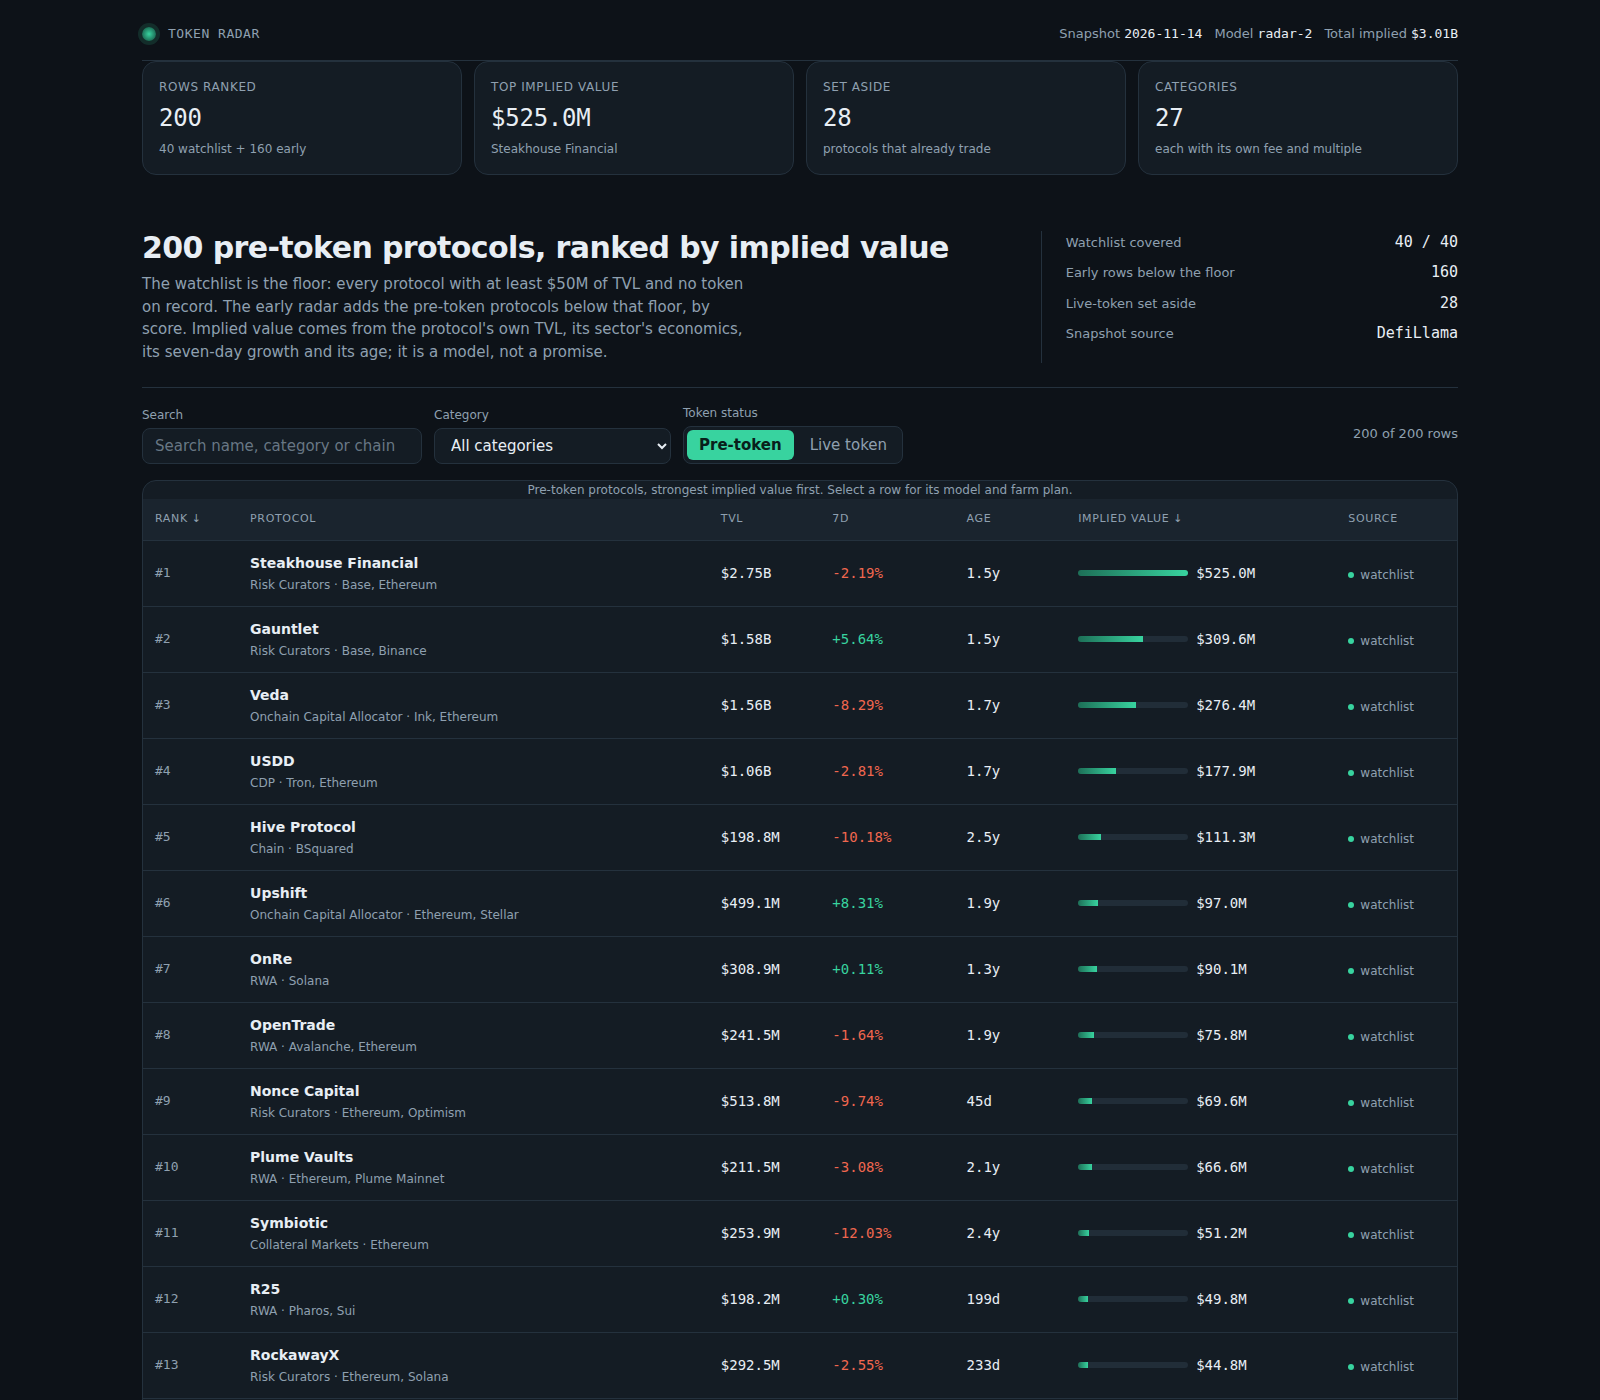
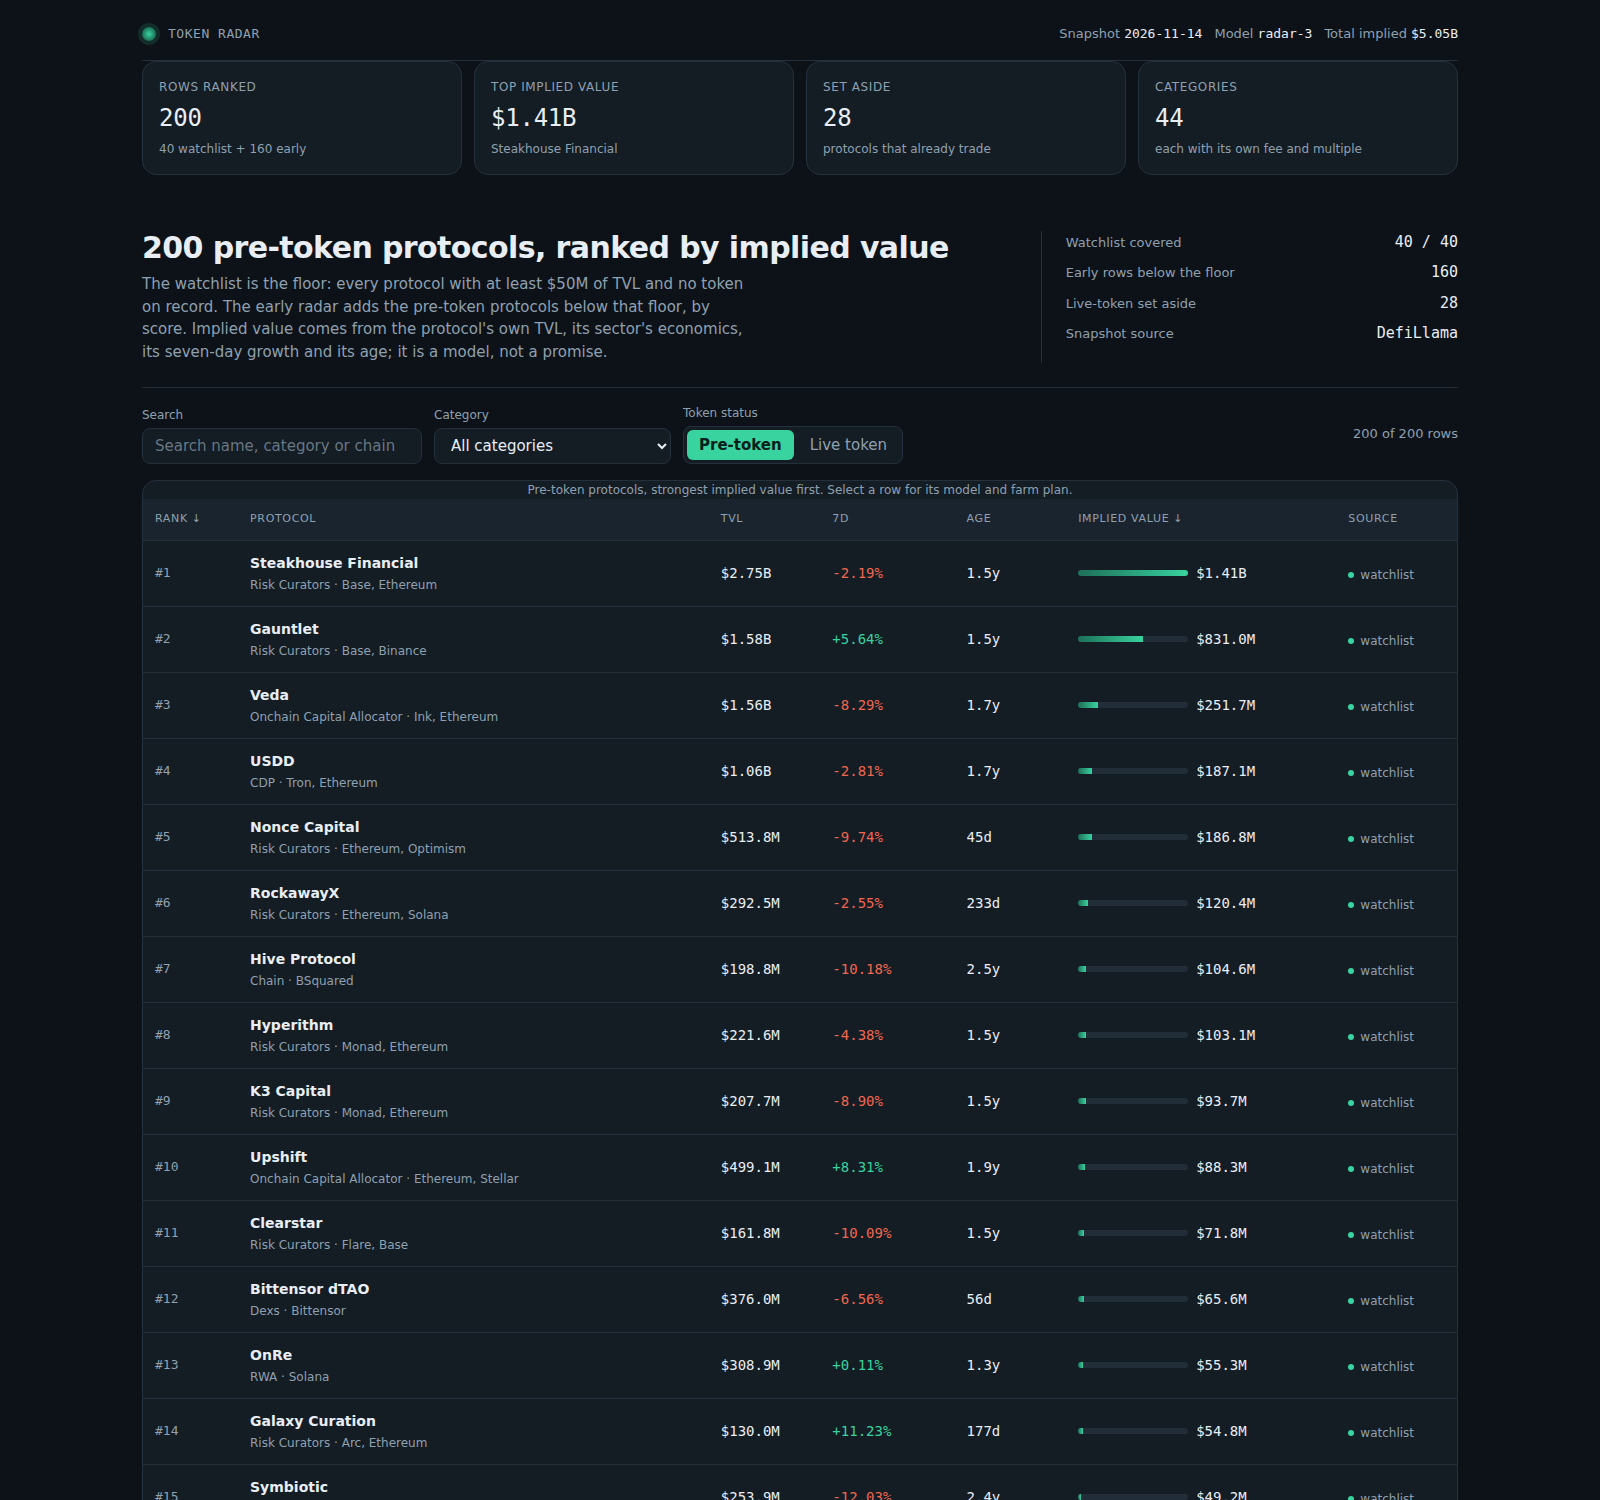
Measured sector multiples: calibrate mcap per TVL from the snapshot live tokens, shrink thin samples

diff --git a/lib/model.ts b/lib/model.ts
@@ -17,6 +17,13 @@
 //
 // No protocol name is ever special-cased: the same function scores every row. Every constant is stated
 // on the dashboard, every sector's terms are printed there, and each row's detail view shows the parts.
+//
+// The multiple is not asserted: it is measured. The snapshot's own live-token protocols carry both a
+// market cap and a TVL, so the multiple the market pays each sector is read off them (lib/calibrate.ts)
+// and only thin sectors fall back toward the snapshot median. The fee stays a stated sector assumption,
+// because no snapshot field carries a protocol's revenue.
+
+import { calibrateMultiples, fallbackMultiple, CALIBRATION_PRIOR_SAMPLES, type CalibratedMultiple } from './calibrate.ts';
 
 /** The snapshot's protocol entry: exactly the ten fields the sealed input carries. */
 export interface SnapshotProtocol {
@@ -69,7 +76,7 @@ export const MODEL: ModelConstants = {
 };
 
 /** The model's version label: the dashboard names it and the rules quote it. */
-export const MODEL_VERSION = 'radar-2';
+export const MODEL_VERSION = 'radar-3';
 
 /** How many pre-token protocols below the watchlist floor the early radar carries, by score. */
 export const EARLY_ROWS = 160;
@@ -132,10 +139,42 @@ export function sectorTerms(category: string | null): SectorTerms {
   return { fee_bps: 170, multiple: 16, note: 'the middle of the sector table: this category has no row of its own' };
 }
 
-/** The whole sector table, for the dashboard's model panel. */
-export function sectorTable(): { category: string; fee_bps: number; multiple: number; note: string }[] {
-  return Object.keys(SECTORS)
-    .map((c) => ({ category: c, fee_bps: SECTORS[c]!.fee_bps, multiple: SECTORS[c]!.multiple, note: SECTORS[c]!.note }))
+/** One sector's terms as the dashboard prints them: the assumed fee, the measured multiple, its evidence. */
+export interface SectorRow {
+  category: string;
+  fee_bps: number;
+  multiple: number;
+  note: string;
+  /** How many live-token protocols the multiple was measured on. */
+  samples: number;
+  /** The category's own median mcap/tvl, or null when nothing was measured. */
+  observed: number | null;
+  /** True when the multiple was shrunk toward the snapshot median for thin evidence. */
+  shrunk: boolean;
+}
+
+/**
+ * The whole sector table, for the dashboard's model panel. Every category the board actually scores is
+ * present, with the market-measured multiple when the snapshot has live protocols to measure it on.
+ */
+export function sectorTable(snapshot?: Snapshot): SectorRow[] {
+  const calibration = snapshot !== undefined ? calibrateMultiples(snapshot.protocols) : null;
+  const categories = new Set<string>(Object.keys(SECTORS));
+  if (calibration !== null) for (const c of calibration.byCategory.keys()) categories.add(c);
+  return [...categories]
+    .map((c) => {
+      const terms = sectorTerms(c);
+      const measured = calibration?.byCategory.get(c);
+      return {
+        category: c,
+        fee_bps: terms.fee_bps,
+        multiple: measured !== undefined ? Math.round(measured.multiple * 100) / 100 : terms.multiple,
+        note: terms.note,
+        samples: measured?.samples ?? 0,
+        observed: measured?.observed ?? null,
+        shrunk: measured?.shrunk ?? false,
+      };
+    })
     .sort((a, b) => b.multiple - a.multiple || b.fee_bps - a.fee_bps);
 }
 
@@ -216,7 +255,7 @@ export interface RadarData {
   floor_usd: number;
   model: ModelConstants;
   model_version: string;
-  sectors: { category: string; fee_bps: number; multiple: number; note: string }[];
+  sectors: SectorRow[];
   watchlist_size: number;
   board_size: number;
   early_size: number;
@@ -255,6 +294,8 @@ export function impliedValue(
   protocol: SnapshotProtocol,
   asOf: string,
   model: ModelConstants,
+  calibration?: Map<string, CalibratedMultiple> | null,
+  snapshotMedian = 0,
 ): {
   implied: number;
   revenue: number;
@@ -266,9 +307,18 @@ export function impliedValue(
   liquidityMult: number;
   age: number | null;
   sectorNote: string;
+  multipleSamples: number;
+  multipleObserved: number | null;
 } {
   const terms = sectorTerms(protocol.category);
+  // The value a dollar of TVL commands comes from the market's own live protocols in this category. That
+  // ratio, mcap / tvl, needs no fee assumption: the market has already priced the book. The sector table's
+  // figure is the fallback only when the snapshot holds no live protocol in the category to measure on.
+  const measured = protocol.category !== null ? calibration?.get(protocol.category) : undefined;
+  const multiple = measured !== undefined ? measured.multiple : fallbackMultiple(snapshotMedian, terms.multiple);
   const age = ageDays(asOf, protocol.listed_at);
+  // The book's own earnings, at the sector's stated fee: a reference figure the row prints, not the
+  // multiplier path. It answers "what would this book earn a year", separate from "what is it worth".
   const revenue = (protocol.tvl_usd * terms.fee_bps) / 10_000;
   const rawGrowth = finite(protocol.change_7d, 0);
   const growthPct = Math.min(model.growth_cap, Math.max(model.growth_floor, rawGrowth));
@@ -280,18 +330,22 @@ export function impliedValue(
   const liquidityMult =
     model.liquidity_floor +
     Math.min(Math.log10(tvlRatio) / Math.log10(model.liquidity_ref_usd / 1_000_000), 1) * model.liquidity_range;
-  const implied = Math.max(1, Math.round(revenue * terms.multiple * growthMult * tenureMult * liquidityMult));
+  // Value = the book, priced at what its own sector's live tokens are worth per dollar of TVL, adjusted for
+  // how fast the book is growing, how long it has held it, and how much of it could actually be traded.
+  const implied = Math.max(1, Math.round(protocol.tvl_usd * multiple * growthMult * tenureMult * liquidityMult));
   return {
     implied,
     revenue,
     feeBps: terms.fee_bps,
-    multiple: terms.multiple,
+    multiple,
     growthPct,
     growthMult,
     tenureMult,
     liquidityMult,
     age,
     sectorNote: terms.note,
+    multipleSamples: measured?.samples ?? 0,
+    multipleObserved: measured?.observed ?? null,
   };
 }
 
@@ -316,6 +370,9 @@ function bySlug(protocols: SnapshotProtocol[]): Map<string, SnapshotProtocol> {
 /** The protocols the board ranks, strongest first, with ranks 1..n. */
 export function buildBoard(snapshot: Snapshot, model: ModelConstants = MODEL): BoardRow[] {
   const index = bySlug(snapshot.protocols);
+  const calibrated = calibrateMultiples(snapshot.protocols);
+  const calibration = calibrated.byCategory;
+  const snapshotMedian = calibrated.snapshotMedian;
   const chosen = new Map<string, SnapshotProtocol>();
   // The watchlist is the floor: every slug it names is on the board.
   for (const slug of snapshot.watchlist) {
@@ -326,12 +383,12 @@ export function buildBoard(snapshot: Snapshot, model: ModelConstants = MODEL): B
   // protocol is never displaced by an early one.
   const early = snapshot.protocols
     .filter((p) => !chosen.has(p.slug) && isRankable(p) && p.tvl_usd < snapshot.floor_usd)
-    .map((p) => ({ p, implied: impliedValue(p, snapshot.as_of, model).implied }))
+    .map((p) => ({ p, implied: impliedValue(p, snapshot.as_of, model, calibration, snapshotMedian).implied }))
     .sort((a, b) => b.implied - a.implied || b.p.tvl_usd - a.p.tvl_usd || (a.p.slug < b.p.slug ? -1 : 1))
     .slice(0, EARLY_ROWS);
   for (const e of early) chosen.set(e.p.slug, e.p);
 
-  const scored = [...chosen.values()].map((p) => ({ p, ...impliedValue(p, snapshot.as_of, model) }));
+  const scored = [...chosen.values()].map((p) => ({ p, ...impliedValue(p, snapshot.as_of, model, calibration, snapshotMedian) }));
   scored.sort((a, b) => b.implied - a.implied || (a.p.slug < b.p.slug ? -1 : a.p.slug > b.p.slug ? 1 : 0));
   return scored.map((s, i) => ({
     rank: i + 1,
@@ -358,6 +415,14 @@ export function buildBoard(snapshot: Snapshot, model: ModelConstants = MODEL): B
       liquidity_multiplier: round4(s.liquidityMult),
       age_days: s.age,
       sector_note: s.sectorNote,
+      multiple_samples: s.multipleSamples,
+      multiple_observed: s.multipleObserved,
+      multiple_source:
+        s.multipleSamples === 0
+          ? 'snapshot median: no live token in this category to measure on'
+          : s.multipleSamples < CALIBRATION_PRIOR_SAMPLES
+            ? 'measured on ' + s.multipleSamples + ' live token' + (s.multipleSamples === 1 ? '' : 's') + ', shrunk toward the snapshot median'
+            : 'measured on ' + s.multipleSamples + ' live tokens in this category',
     },
     farm_steps: farmSteps(s.p, s.age, s.implied).map(stepText),
   }));
@@ -525,7 +590,7 @@ export function buildRadar(snapshot: Snapshot, model: ModelConstants = MODEL): {
     floor_usd: snapshot.floor_usd,
     model,
     model_version: MODEL_VERSION,
-    sectors: sectorTable(),
+    sectors: sectorTable(snapshot),
     watchlist_size: snapshot.watchlist.length,
     board_size: board.length,
     early_size: early,

diff --git a/dashboard/app.js b/dashboard/app.js
@@ -43,8 +43,8 @@
     var liquidity =
       model.liquidity_floor +
       Math.min(Math.log(tvlRatio) / Math.log(model.liquidity_ref_usd / 1e6), 1) * model.liquidity_range;
-    var revenue = (row.tvl_usd * row.fee_bps) / 10000;
-    return Math.max(1, Math.round(revenue * row.multiple * growthMult * tenure * liquidity));
+    // Value = the book, priced at what the sector's own live tokens are worth per dollar of TVL.
+    return Math.max(1, Math.round(row.tvl_usd * row.multiple * growthMult * tenure * liquidity));
   }
 
   function el(tag, attrs) {
@@ -363,11 +363,15 @@
 
   function modelPanel() {
     var m = DATA.model;
-    var sectorRows = DATA.sectors.slice(0, 28).map(function (s) {
+    var sectorRows = DATA.sectors.slice(0, 30).map(function (s) {
+      var evidence = s.samples === 0
+        ? 'snapshot median'
+        : s.samples + (s.samples === 1 ? ' live token' : ' live tokens') + (s.shrunk ? ', shrunk' : '');
       return el('tr', null,
         el('td', { text: s.category }),
         el('td', { class: 'num', text: (s.fee_bps / 100).toFixed(2) + '%' }),
-        el('td', { class: 'num', text: s.multiple + 'x' }),
+        el('td', { class: 'num', text: (Math.round(s.multiple * 100) / 100) + '×' }),
+        el('td', { class: 'num' + (s.samples === 0 ? ' weak' : ''), text: evidence }),
         el('td', { class: 'sub', text: s.note })
       );
     });
@@ -375,17 +379,19 @@
       el('h2', { text: 'How implied value is computed' }),
       el('p', { class: 'sub', text: 'Every row is scored by one function of the snapshot figures. No protocol name is special-cased and no row is hand-picked.' }),
       el('div', { class: 'formula' },
-        el('div', null, el('b', { text: 'revenue' }), ' = tvl_usd × FEE_BPS(category) / 10000'),
+        el('div', null, el('b', { text: 'multiple' }), ' = median( mcap / tvl ) over the snapshot\'s live tokens in that category'),
         el('div', null, el('b', { text: 'growth' }), ' = 1 + clamp(change_7d, ' + m.growth_floor + ', ' + m.growth_cap + ') / 100 × ' + m.growth_weight),
         el('div', null, el('b', { text: 'tenure' }), ' = ' + m.tenure_floor + ' + min(age_days, ' + m.tenure_days + ') / ' + m.tenure_days + ' × ' + m.tenure_range),
         el('div', null, el('b', { text: 'liquidity' }), ' = ' + m.liquidity_floor + ' + min(log10(tvl / $1M) / log10($3B / $1M), 1) × ' + m.liquidity_range),
-        el('div', null, el('b', { text: 'implied' }), ' = max(1, round(revenue × multiple × growth × tenure × liquidity))')
+        el('div', null, el('b', { text: 'implied' }), ' = max(1, round(tvl_usd × multiple × growth × tenure × liquidity))')
       ),
-      el('p', { class: 'sub', text: 'TVL, seven-day growth and listing date come from the snapshot. Age is the time since the protocol was first listed, the best record of how long it has run with no token; an unlisted age uses ' + m.unknown_age_days + ' days. Each sector carries its own revenue take and revenue multiple, because a lending market and a chain do not earn the same way.' }),
-      el('h3', { text: 'Sector terms' }),
+      el('p', { class: 'sub', text: 'TVL, seven-day growth and listing date come from the snapshot. Age is the time since the protocol was first listed, the best record of how long it has run with no token; an unlisted age uses ' + m.unknown_age_days + ' days.' }),
+      el('p', { class: 'sub', text: 'The multiple is measured, not assumed: the snapshot\'s own live-token protocols carry a market cap and a TVL, so mcap / tvl reads off what the market currently pays each sector per dollar of book. A category with fewer than six live tokens is shrunk toward the snapshot median, so one lucky sample never sets a sector\'s price. A category with none takes the snapshot median and says so.' }),
+      el('p', { class: 'sub', text: 'The fee figure is a stated assumption, not a measurement: no snapshot field carries a protocol\'s revenue, so what a book would earn a year is shown separately from what it is worth.' }),
+      el('h3', { text: 'Sector terms: assumed fee, measured multiple' }),
       el('div', { class: 'sector-table' },
         el('table', null,
-          el('thead', null, el('tr', null, el('th', { scope: 'col', text: 'Category' }), el('th', { scope: 'col', text: 'Fee on TVL' }), el('th', { scope: 'col', text: 'Multiple' }), el('th', { scope: 'col', text: 'Where the revenue comes from' }))),
+          el('thead', null, el('tr', null, el('th', { scope: 'col', text: 'Category' }), el('th', { scope: 'col', text: 'Assumed fee on TVL' }), el('th', { scope: 'col', text: 'Measured multiple' }), el('th', { scope: 'col', text: 'Evidence' }), el('th', { scope: 'col', text: 'Where the revenue comes from' }))),
           el('tbody', null, sectorRows)
         )
       )
@@ -415,8 +421,9 @@
       el('h3', { text: 'Implied value' }),
       el('div', { class: 'equation' },
         el('div', null, el('span', { text: 'TVL' }), el('b', { class: 'num', text: fmtUsd(row.tvl_usd) })),
-        el('div', null, el('span', { text: 'Revenue at ' + (row.fee_bps / 100).toFixed(2) + '% of TVL' }), el('b', { class: 'num', text: fmtUsd(row.revenue_usd) })),
-        el('div', null, el('span', { text: 'Sector multiple' }), el('b', { class: 'num', text: row.multiple + 'x' })),
+        el('div', null, el('span', { text: 'Market multiple: mcap per $1 of TVL' }), el('b', { class: 'num', text: (Math.round(row.multiple * 100) / 100) + '×' })),
+        el('div', null, el('span', { text: 'Where that multiple comes from' }), el('b', { class: 'num sub', text: row.multiple_source || 'n/a' })),
+        el('div', null, el('span', { text: 'Book earnings a year at ' + (row.fee_bps / 100).toFixed(2) + '% of TVL (reference)' }), el('b', { class: 'num', text: fmtUsd(row.revenue_usd) })),
         el('div', null, el('span', { text: 'Seven-day growth' }), el('b', { class: 'num', text: fmtPct(row.change_7d) })),
         el('div', null, el('span', { text: 'Age with no token' }), el('b', { class: 'num', text: fmtAge(row.age_days) })),
         el('div', null, el('span', { text: 'Growth multiplier' }), el('b', { class: 'num', text: String(row.growth_multiplier) })),

diff --git a/lib/calibrate.ts b/lib/calibrate.ts
@@ -1,0 +1,86 @@
+// Sector multiple calibration (radar-3): the revenue multiple a token market pays each sector, measured
+// from the snapshot itself rather than asserted.
+//
+// The snapshot's live-token protocols carry a market cap and a TVL. Their ratio, mcap / tvl, is the
+// multiple the market currently pays that sector's book. Grouping those protocols by category and taking
+// the median gives an observed multiple per sector. Sectors with too few live samples are shrunk toward
+// the whole-snapshot median in proportion to their sample count, so a sector with one lucky sample never
+// outranks a sector with twelve.
+//
+// What this cannot measure: the fee a protocol takes on its book. No snapshot field carries revenue, so
+// the sector's fee_bps stays a stated economic assumption (a lending spread is thin, a curator's fee is
+// not). The dashboard prints both: the measured multiple and the assumed fee, labelled as such.
+
+/** A category's observed multiple and the evidence behind it. */
+export interface CalibratedMultiple {
+  /** The multiple this model uses for the category. */
+  multiple: number;
+  /** The raw median mcap/tvl of the category's live-token protocols, or null when it has none. */
+  observed: number | null;
+  /** How many live-token protocols the observation rests on. */
+  samples: number;
+  /** True when the value was shrunk toward the snapshot median rather than taken raw. */
+  shrunk: boolean;
+}
+
+/** How much evidence a category needs before its own median stands on its own. */
+export const CALIBRATION_PRIOR_SAMPLES = 6;
+
+/** Plausible mcap/tvl band: outside it the sample is a data error, not a market price. */
+export const CALIBRATION_MIN_RATIO = 0.01;
+export const CALIBRATION_MAX_RATIO = 100;
+
+/** The median of a non-empty list of numbers. */
+export function median(values: number[]): number {
+  const sorted = [...values].sort((a, b) => a - b);
+  const mid = sorted.length >> 1;
+  return sorted.length % 2 === 1 ? sorted[mid]! : (sorted[mid - 1]! + sorted[mid]!) / 2;
+}
+
+/**
+ * The market's observed multiple for every category with at least one live-token sample, plus the
+ * snapshot-wide median those thin categories are shrunk toward.
+ */
+export function calibrateMultiples(
+  protocols: { category: string | null; tvl_usd: number; mcap_usd: number | null }[],
+): { byCategory: Map<string, CalibratedMultiple>; snapshotMedian: number } {
+  const ratiosByCategory = new Map<string, number[]>();
+  const allRatios: number[] = [];
+  for (const p of protocols) {
+    if (p.category === null || p.mcap_usd === null || !(p.tvl_usd > 0) || !(p.mcap_usd > 0)) continue;
+    const ratio = p.mcap_usd / p.tvl_usd;
+    if (!(ratio >= CALIBRATION_MIN_RATIO && ratio <= CALIBRATION_MAX_RATIO)) continue;
+    allRatios.push(ratio);
+    const list = ratiosByCategory.get(p.category) ?? [];
+    list.push(ratio);
+    ratiosByCategory.set(p.category, list);
+  }
+  // The snapshot has no live protocols at all: no measurement is possible, and the caller falls back
+  // to the stated sector table. A zero median would silently zero every row, so it is never that.
+  const snapshotMedian = allRatios.length > 0 ? median(allRatios) : 0;
+
+  const byCategory = new Map<string, CalibratedMultiple>();
+  for (const [category, ratios] of ratiosByCategory) {
+    const observed = median(ratios);
+    const samples = ratios.length;
+    if (samples >= CALIBRATION_PRIOR_SAMPLES || snapshotMedian === 0) {
+      byCategory.set(category, { multiple: observed, observed, samples, shrunk: false });
+      continue;
+    }
+    // Shrink toward the snapshot median: weight the category's own evidence by its sample count
+    // against the prior, so one sample moves the number barely and five move it most of the way.
+    const w = samples / CALIBRATION_PRIOR_SAMPLES;
+    const shrunkTo = observed * w + snapshotMedian * (1 - w);
+    byCategory.set(category, { multiple: shrunkTo, observed, samples, shrunk: true });
+  }
+  return { byCategory, snapshotMedian };
+}
+
+/**
+ * The multiple for a category the snapshot has no live protocol in: the snapshot-wide median, which is
+ * the market's average pricing per dollar of TVL. Never a table constant — those are on a different scale
+ * (a revenue multiple) and mixing the two scales on one board is how a small book outranks a large one.
+ */
+export function fallbackMultiple(snapshotMedian: number, statedMultiple: number): number {
+  return snapshotMedian > 0 ? snapshotMedian : statedMultiple;
+}

diff --git a/dashboard/app.css b/dashboard/app.css
@@ -174,3 +174,5 @@ tbody tr[data-selected="true"] { background: color-mix(in srgb, var(--accent) 10
 @media (prefers-reduced-motion: reduce) {
   *, *::before, *::after { transition-duration: 0.01ms !important; animation-duration: 0.01ms !important; animation-iteration-count: 1 !important; }
 }
+
+.sector-table td.weak { color: var(--muted, #8a8a8a); font-style: italic; }
